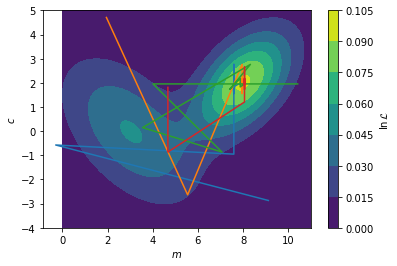
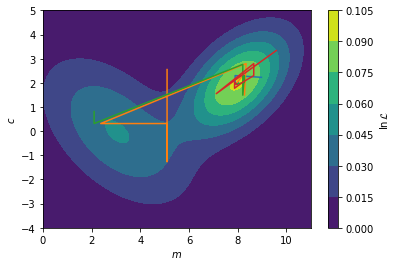
deploy: a2bb62acc96f176f1aa2533b238d1d25d6cc2a20

diff --git a/searchindex.js b/searchindex.js
@@ -1,1 +1,1 @@
-Search.setIndex({docnames:["fitting_processes_and_problems/how_do_we_maximise_the_likelihood","fitting_processes_and_problems/how_to_leverage_our_prior_knowledge","fitting_processes_and_problems/what_is_the_likelihood","intro","model_dependent_analysis/what_is_model_dependent_analysis","model_reparameterisation/a_case_for_model_reparameterisation","model_reparameterisation/niti_multilayer_example","model_reparameterisation/phospholipid_monolayer_example","reflectometry_slab_models/how_we_calculate_the_reflectivity_of_a_slab_model","reflectometry_slab_models/roughness_and_microslicing","reflectometry_slab_models/the_slab_model","the_fourier_transform/an_introduction_to_fourier_transforms","the_fourier_transform/fourier_transforms_for_reflectometry_analysis"],envversion:{"sphinx.domains.c":2,"sphinx.domains.changeset":1,"sphinx.domains.citation":1,"sphinx.domains.cpp":4,"sphinx.domains.index":1,"sphinx.domains.javascript":2,"sphinx.domains.math":2,"sphinx.domains.python":3,"sphinx.domains.rst":2,"sphinx.domains.std":2,"sphinx.ext.intersphinx":1,"sphinxcontrib.bibtex":7,sphinx:56},filenames:["fitting_processes_and_problems/how_do_we_maximise_the_likelihood.ipynb","fitting_processes_and_problems/how_to_leverage_our_prior_knowledge.ipynb","fitting_processes_and_problems/what_is_the_likelihood.ipynb","intro.md","model_dependent_analysis/what_is_model_dependent_analysis.md","model_reparameterisation/a_case_for_model_reparameterisation.md","model_reparameterisation/niti_multilayer_example.ipynb","model_reparameterisation/phospholipid_monolayer_example.ipynb","reflectometry_slab_models/how_we_calculate_the_reflectivity_of_a_slab_model.ipynb","reflectometry_slab_models/roughness_and_microslicing.ipynb","reflectometry_slab_models/the_slab_model.md","the_fourier_transform/an_introduction_to_fourier_transforms.ipynb","the_fourier_transform/fourier_transforms_for_reflectometry_analysis.ipynb"],objects:{},objnames:{},objtypes:{},terms:{"0":[0,2,3,7,8,9,12],"00039":3,"001":[8,9,12],"00260":3,"01980001503076100":3,"022":[3,6],"02614057":0,"0294":3,"03":3,"0330252":0,"04493869":0,"0469":3,"04893":3,"0496667614679125":2,"06":[6,9],"07":3,"078":3,"09209783":0,"0j":[8,9],"1":[0,2,3,6,7,8,9,11,12],"10":[0,2,3,6,9,12],"1000":[0,2,7,8,12],"1008202821328":3,"1016":3,"1023":3,"1039":3,"104":12,"1051":3,"108":3,"1098":3,"11":[0,3,9],"1103":3,"1107":3,"1198":3,"12":[2,3,9],"1204":3,"15":[3,7],"16":[8,12],"16748113":0,"1761":3,"18":[3,7],"186":12,"186e":[8,9,12],"19":[3,7],"193":3,"1948":3,"194812030504":3,"1954":3,"197":3,"1980":3,"1997":3,"1998":3,"1999":3,"1e":9,"1f77b4":2,"1j":[8,12],"2":[0,2,3,4,6,8,9,12],"20":[8,9,12],"200":[3,8,9,12],"20024326":0,"2011":3,"2018":3,"2019":3,"2021":3,"20384101638663543":2,"204":3,"21":3,"23":6,"248":3,"265":7,"265n_c":7,"27663003":0,"2827":3,"2848":3,"297":3,"2e":9,"2k_nk_":9,"3":[0,2,3,6,8,9,10,12],"300":[8,12],"311":3,"338":3,"341":3,"342":3,"357":3,"359":3,"369":3,"3blue1brown":11,"3e":[6,9],"4":[0,2,3,6,8,9,10,12],"417":6,"417e":6,"42":2,"4245e":9,"438":6,"44":3,"4526":3,"47":6,"471":3,"5":[0,7,8,9],"500":[8,9,12],"504":3,"51":6,"52":3,"520":3,"531":3,"58":6,"596":3,"5q":8,"6":[0,3,6,8,9,12],"6133":3,"6141":3,"69":6,"7":[0,2,7,9],"761":3,"779":3,"8":[0,2,6,9],"867":6,"871":12,"871e":[8,9,12],"9":[3,6,9],"90":7,"908":6,"91":6,"922868":3,"9493e":9,"95":3,"951e":6,"978":3,"98":[3,12],"99":3,"9957561":0,"99615666":0,"99998503":0,"99999727":0,"\u00e0":3,"\u00e5":[6,7,8,9,11,12],"\u00e8":3,"\u00e9":3,"\u00f6":3,"abel\u00e8":[8,9],"abstract":6,"case":10,"do":[4,8,12],"float":[0,2,6],"function":[0,2,4,7,8,9,10,12],"import":[0,2,4,6,7,8,9,10,12],"int":12,"return":[0,2,6,8,12],"switch":3,"true":0,"while":6,A:[3,4,6,7,9,10,12],As:10,Be:0,By:4,For:[2,3,5,6,7,12],If:[0,2,3,4,12],In:[0,3,4,5,7,10,12],It:[0,3,4,7,9,10],No:9,The:[0,2,3,4,5,6,7,8,9,11],Then:[4,8,12],There:[0,9],These:[0,9,12],_:[8,12],ab:[8,12],abel:[3,8,9],abeles48:[3,8],abeles_with_rough:9,abl:[5,9],about:[3,5],abov:[0,2,4,6,12],abscissa:2,absolut:0,account:9,accur:4,acf2:12,acf:12,acheiv:7,achiev:9,act:7,action:12,activ:5,ad:7,adapt:9,add:7,add_patch:9,addit:[5,7,12],addition:[4,6,8,9],admittedli:9,after:[0,12],again:[9,12],against:10,agre:2,agreement:[0,2,4],aid:8,aim:[0,2,3],air:[3,7,9,12],al:5,algorithm:[0,3,4],all:[8,11],allow:[5,6,7],alon:0,alpha:2,alreadi:4,also:[6,7,9],although:12,amphiphil:7,an:[3,4,5,9,10],analog:[2,11],analogu:0,analys:[0,3],analysi:[0,2,3,6,7,8,10],analyt:4,andrew:3,angstrom:6,ani:[3,9],anlaysi:6,ann:3,anoth:12,anphi:3,apm:7,append:0,appl:3,appli:[0,4,5,7,9,12],applic:[0,3,8],approach:[0,3,4,5,6,7,8,9,10,12],approx:12,approxim:[3,8],ar:[0,2,3,4,5,6,7,8,9,10,11,12],area:5,argmax:0,argsort:0,arnold:3,around:9,arrai:[0,6,8,9,12],artifact:9,assembl:7,assess:0,assign:6,associ:[2,3],assum:[3,7],assumpt:[4,6,7],atom:[6,7],attach:7,attent:3,autocorrel:12,avail:12,avogardo:6,awar:[0,4],ax:[2,9],axhlin:12,b:[3,6,8],b_:[6,8],b_i:[6,7],b_ni:6,b_ti:6,back:0,bar:[2,8],base:[4,5,6,8],bayesian:3,becom:12,been:[3,6,7,8,9,12],befor:[9,10,11],begin:8,being:[2,4],believ:4,below:[0,2,6,7,8,9,10,11,12],benefit:7,berk:3,best:[0,2],beta:[6,7,8,9,12],beta_0:8,beta_1:10,beta_2:10,beta_:[6,7,12],beta_i:7,beta_microsl:9,beta_n:8,beta_ni:6,beta_ti:6,between:[0,2,4,8,9,10,11,12],bewteen:12,bia:4,bigg:[2,12],biolog:[0,3],bj:3,bjorck11:[0,3],black:[0,12],block:3,blue:[0,2,12],bmatrix:8,book:12,born:[3,8],borrow:12,both:7,bound:6,bowen:3,bring:8,broad:[2,4],broadli:4,brought:8,bsd:8,c9cp00203k:3,c:[0,2,3,12],calcul:[2,4,7,9,10,12],call:10,callback:0,campbel:3,can:[0,2,3,4,5,6,7,8,9,10,12],cannot:9,caract:3,carbon:7,career:4,cation:3,caus:7,cdot:6,chang:[4,12],character:3,characterist:8,characteristic_matric:8,charg:12,chem:3,chemic:[3,5,10],chemistri:4,chi:2,circ:7,clear:[0,4,9,10],clearer:8,clifton:3,close:8,cm:6,code:[0,3,6,9],collect:3,colloid:3,color:2,colorbar:0,comfort:3,common:[0,4,6,7,9,10],commonli:[0,2,5],companion:3,compar:[2,4,5,8,9],comparison:10,complet:[0,4],complex:[0,7,8],composit:7,concept:5,conj:8,conjug:8,consid:[0,2,4,6,7,8,9,10,12],consist:[6,7,10],constant:[4,6],constrain:[5,6,7],constraint:[5,7],construct:[4,8,10],content:3,context:4,continu:3,contourf:0,could:10,coupl:0,cours:[3,4],cover:4,creat:9,croce:[3,9],crystallogr:3,crystallographi:12,css:[3,7],cubitt:3,curr:3,current:0,current_theta:0,curve_fit:2,d:[2,3,8,9,12],d_1:10,d_2:10,d_h:7,d_i:7,d_microsl:9,d_n:8,d_t:7,dan:3,data:[0,2,3,4,5,6,7,8,9,10,12],databas:6,datapoint:2,de:3,decomposit:11,deep:3,def:[0,2,6,8,12],defin:[2,4,6,7,10],deg2rad:7,delta:12,denot:12,densiti:[5,7,8,9,10,12],depend:[0,2,3,6,7,10],deposit:6,deriv:[10,12],descent:0,describ:[4,8,9,10],descript:[5,7,12],desir:[0,6],deslatt:3,destruct:10,detail:[4,11,12],determin:[0,3,8],develop:3,deviat:[2,8],devind:12,diatom:4,diff:[8,12],differ:[9,10,12],differenti:[0,3],differential_evolut:0,difficult:7,dimens:[10,12],dimension:0,dioxid:[9,12],directli:6,discoveri:0,discuss:[2,9,10,12],disposit:6,distribut:[0,2],divid:12,docstr:8,doe:[4,8,9],doi:3,domain:11,done:2,dot:2,downhil:0,dppc:7,dr:12,dtype:8,du:3,due:[4,12],dura:3,e:[3,10],each:[6,7,8,9,10],easili:[0,6],edgecolor:9,edit:3,edler:3,effect:[0,3,7,9,12],effici:3,elast:11,element:[2,6],elementari:[3,12],enabl:9,encount:[0,4],end:8,ensur:4,entir:4,enumer:2,enzym:4,equaion:12,equat:4,error:[2,9],errorbar:2,essenti:11,estim:12,et:5,european:3,eutect:3,evalu:[3,6],eventu:0,ever:4,everi:7,evolut:[0,3],evolutionari:0,exampl:[0,4,5,9,10],exist:9,exp:[8,9,12],expect:4,experi:4,experiment:[2,4,5,10],explicitli:12,extend:7,extrem:[4,7,9],f:[3,6,8],factor:[2,8],fair:4,fals:9,familiar:[4,5,12],fantast:12,far:2,fashion:0,feel:3,fernandez:3,ff7f0e:2,fig:[2,4,7,9,10],figsiz:[2,9],figur:[0,2,3,4,9,12],fill:9,fill_between:2,find:[0,2,4,6,7,9,12],first:[0,2,6,8,10,12],firstli:4,fit:[2,4,6],flat:[9,12],flavour:0,flexion:3,flow:4,fm:6,focus:11,follow:[0,2,3,6,7,12],forc:4,form:[0,12],formal:[8,9],format:3,found:[0,6,7,8,9,12],fourier:[3,4,8,10],fourier_transform:12,frac:[2,6,7,8,9,12],fraction:7,free:3,frensel:8,fresnel:[8,9],fresnel_reflect:8,from:[0,2,3,4,5,6,7,8,9,10,11,12],full:12,fulli:7,fundament:[10,11],further:0,g:[3,6],gcm:6,gener:[4,10],genet:3,geometri:10,gerelli:3,get:[2,3,4],give:[3,8,11],given:[0,2,5,7,9,10],gloabl:0,glob:3,global:[0,3],go:[0,8,10],good:2,gradient:2,gradient_callback:0,gradient_v:0,graphic:6,great:11,greater:12,group:7,guess:0,h:3,ha:[3,6,7,9,12],hand:9,hard:6,have:[2,3,4,7,8,9,12],head:7,heavili:3,heavisid:12,helper:[0,9],henc:11,here:[2,8],heurist:3,higher:7,hopefulli:10,horizont:12,how:[2,3,4,5,10],howev:[0,2,4,5,6,9,10,12],hydrocarbon:7,hydrophil:7,hydrophob:[3,7],i:[2,6,7,8,10,12],identifi:9,ignor:9,implement:[0,8,9],impli:9,improv:4,incid:[10,12],includ:[3,4,6,7,8,11],incorrectli:9,increas:[0,2,9],independ:4,indic:[0,2,12],individu:[6,8],induc:3,influenc:9,inform:12,infti:12,inher:4,initi:0,input:8,insect:0,insight:[3,4],insolubl:7,inspir:0,instead:[0,6,8,12],integr:3,intens:12,interact:[11,12],intercal:7,intercept:2,interest:[4,11],interfac:[3,7,8,9,10],interfer:10,interogr:9,interpret:9,introduc:[3,4,5,7,9,10],inv_fourier_transform:12,invers:[3,12],investig:[0,4,12],involv:[6,10],isbn:3,isi:3,issu:12,its:6,j:3,jackson:3,jci:3,john:[3,5],jpsc21:[3,5],jupyterhub:3,k0:8,k:[0,3,8,12],k_0:8,k_:[8,9],k_n:[8,9],karin:3,kinet:4,kn:8,knowledg:3,known:[4,7,9],l:[0,2,3],la:3,label:[0,8,9,12],languag:[3,5],larg:[3,9,12],later:[6,10],lawrenc:3,layer:[6,7,8,9,10],le:3,lead:[4,9,10,11],leak:9,lectromagn:3,lectur:3,left:9,legend:[8,9,12],length:[5,7,8,9,10,12],less:10,let:12,licens:8,like:[4,7,9],limit:[4,6,7,12],line:[0,2,12],linearli:2,linspac:[0,2,7,8,9,12],lipid:3,literatur:5,ln:[0,2],loadtxt:2,local:0,log:[2,8,9,12],logic:[3,4],logpdf:0,lond:3,look:[0,2,4,8,11,12],loss:12,lost:10,lovel:3,low:8,lr99:[3,4],ls:2,lw:2,m:[0,2,3,8],m_:[6,8],m_w:6,m_w_ni:6,m_w_ti:6,made:[4,6],magnitud:12,mai:[2,5,6,9],majkrzak:3,major:[2,6],make:[3,4,5,7,8],mani:0,marker:2,mass:5,match:12,materi:[5,6,8,9,10,12],mathcal:[0,2],mathemat:3,mathit:[8,12],mathrm:[2,6,7,8,12],matnei:3,matplotlib:[0,2,7,8,9,12],matric:8,matrix:[8,9],matter:6,matyszewska:3,max:[2,8,12],maxima:0,maximis:2,maximum:[0,2,7],mbd:[3,12],mccluskei:3,mead:0,mean:[0,6,7,9,12],measur:[2,4,10,11,12],media:8,member:0,membran:3,menten:4,merit:4,meshgrid:0,method:[3,8,9],methodolog:[0,3,4,9,12],metric:[0,2],micel:3,micha:4,might:4,milieux:3,minim:0,minima:0,minimis:[0,2],minimum:0,modal:0,model:[0,2,3,6,7,9,12],modifi:9,modul:[0,9],mol:6,molecul:[4,5],molecular:6,monlay:7,monolay:3,more:[0,2,4,5,6,7,9,11],most:[0,8,9,10],move:0,movement:3,msfe:[3,7],much:[8,10],multi:0,multivariate_norm:0,must:[4,7],mv1:0,mv2:0,mv:0,my:3,n:[2,3,6,7,8,9],n_:[2,8],n_a:6,n_c:7,natur:7,nazaruk:3,ndarrai:[0,2,6,8,12],nearbi:0,necessari:[0,8,9],need:4,neg:0,nelder:0,nelson:3,neutron:[0,4,6,8,10,11,12],nevot:9,nevotc80:[3,9],newaxi:[8,12],ni:6,nickel:[6,9],nll:0,nois:12,noisi:12,non:0,none:0,norm:2,normal:[0,2,8,12],normal_wavevector:8,normalis:[2,12],note:[4,7,12],notic:[2,9],now:[0,2,7,8,9],np19:[3,8],np:[0,2,6,7,8,9,12],nuanc:10,nuetron:12,number:[0,2,6,7,12],number_lay:8,number_q:8,numpi:[0,2,6,7,8,9,12],o:2,oberal:0,observ:[2,9,10,12],obtain:[0,6,9,12],obvious:10,offer:4,onc:0,ond:3,one:[0,2,7],ones:8,onli:[6,7,9,12],onlin:6,opin:3,optim:[0,2,3],optimis:[0,7],optimum:0,orang:[0,2],order:[0,8,10,12],origin:3,other:[2,7],our:[0,2,4,5,6,7,9,10,12],out:6,over:3,overal:[0,2,8],overview:11,oxford:3,p0:8,p1:8,p:[2,3],packag:[6,8],pai:3,pair:5,panaccion:3,panosc:3,par54:[3,8],par:3,param:[2,6,8,12],paramet:[2,5,6,7,8,9,10],parameteris:[3,5],pari:3,parker:3,parratt:3,part:[2,12],particl:0,particular:[5,10],patch:9,path:[0,10],pattern:[10,11],pdf:[0,2],peak:12,pedulla:3,per:5,perfect:9,perfectli:9,perform:[2,11,12],perpendicular:12,pg:12,phase:[3,4,8,12],phase_factor:8,phi:8,phi_0:8,phi_i:7,phi_n:8,phi_t:8,phil:3,phospholipid:3,phy:3,physic:[3,4,5,7,10,12],physica:3,physrev:3,pi:[2,8,12],pictori:7,piec:[6,9,12],pint:6,plane:[7,12],pleas:3,plot:[0,2,3,7,8,9,12],plt:[0,2,7,8,9,12],point:2,polissag:3,popul:0,popular:4,posit:0,possibl:[0,2,4,7,9,10,12],power:3,prepar:[4,6],prescott:3,present:[4,12],press:3,pressur:7,preston:3,previou:4,previous:[5,8,9],price:3,print:[0,6],probabl:2,probe:4,problem:[0,3,4,12],procedur:3,process:[3,4,5,6],prod:8,produc:[3,4,12],product:8,profil:[9,10,12],program:3,project:3,propag:[3,8,10],propos:4,py:[0,9],pyplot:[0,2,7,8,9,12],python:[3,8],q2:12,q:[4,8,9,11,12],q_:12,q_x:12,q_y:12,qualiti:0,quelqu:3,question:3,quick:12,r2:12,r:[3,7,8,9,10,12],r_:[8,9],r_abel:8,r_fourier:8,r_microsl:9,r_nevot_croc:9,r_with_rough:9,radiat:[11,12],rai:[3,12],random:0,rang:[4,8,9,12],rasant:3,rather:[4,5,6],ratio:10,ration:0,rayon:3,rck:3,re:0,reach:[0,6],reader:3,real:[8,9,10],realli:4,reason:6,rectangl:9,red:9,reduc:7,refin:10,reflect:[3,4,9,10,12],reflectometri:[0,2,4,5,6,7,8,9,10],refnx:[3,8],refract:[8,10],region:[0,7,9,12],relat:6,relationship:12,relev:7,reli:8,render:12,reparameteris:[2,3,6,7,10],repeat:6,repres:[2,4],reproduc:8,requir:3,res1:0,res2:0,resolut:[4,12],respect:12,result:[0,4,8,9,10,12],resultant_matrix:8,retriv:12,rev:3,rewrit:12,rho:[6,8],rho_:6,rho_ni:6,rho_ti:6,rho_to_beta:6,richardson:3,right:9,risat:3,room:6,root:0,rout:0,rphysap:3,rsta:3,rule:9,s0021889811041446:3,s0921:3,s1359:3,s1600576718017296:3,s:[3,6,7,12],saaka:3,sai:12,same:[2,6,9,10,12],sampl:[4,6,9,11,12],sanchez:3,sansom:3,satija:3,scale:[3,12],scatter:[3,5,7,8,9,10,12],sci:3,scienc:4,scipi:[0,2,6],section:[0,4,5,10],see:[0,9,10],seen:2,select:2,self:7,semi:0,sensit:12,seri:[8,9,10],set:6,set_xlabel:[2,9],set_xlim:9,set_ylabel:[2,9],set_ylim:9,shao:3,shape:8,shortest:9,should:[2,3,7,9,12],show:[0,2,3,4,6,7,8,9,10,12],shown:[0,2,4,7,8,9,10,12],si:12,sigma2:9,sigma3:9,sigma5:9,sigma7:9,sigma:[2,9],sigma_:9,sigma_n:2,silic:3,silicon:[6,9,12],similar:8,simpl:[0,3,4,6,7,10,12],simpli:0,simul:[4,5,6],sin:7,singl:[2,7],sio_2:12,sit:[2,7],siv11:[3,12],sivia:[3,12],skip:3,slab:[3,5,7,9],sld_with_rough:9,smooth:[9,12],so:2,soc:3,solid:3,solubl:7,solut:0,solvat:7,solvent:[3,7],some:[0,2,4,7,9,10,11,12],someth:11,son:3,sourc:3,sp97:[0,3],space:[0,3,11],spallat:3,spectra:4,specular:3,sqrt:8,squar:[8,12],sratifi:3,standard:2,start:0,stat:[0,2],step:[0,9],still:[6,9,12],stoichiometri:5,storn:3,straight_lin:2,straightforward:5,strand:7,stratifi:8,structur:[3,4,6,12],studi:[3,4,12],subject:3,subplot:[2,9],substanti:9,sum:[6,8,12],sum_:[2,6,7],summat:2,superphas:8,sur:3,sure:3,surfac:[3,6,8,12],surfact:3,swarm:0,synthesi:[4,5],system:[0,4,5,6,7,9,10,12],t:[0,3],t_t:7,tackl:4,tail:7,take:[0,4],taken:[8,10],tan80:[3,7],tanford:[3,7],techniqu:3,temperatur:6,tend:12,term:[2,5,6,7,10],textquotesingl:3,than:[0,6,12],them:[2,9],theori:[3,12],therefor:[0,4,5,6,9],theta:[0,2,7],thi:[0,2,3,4,5,6,7,8,9,10,11,12],thick:[7,8,9,10,12],thickn:9,thin:9,thing:4,think:5,thought:12,three:[4,6],through:[5,8,9,10],thumb:9,tight_layout:2,time:[6,9,11,12],tiqu:3,titanium:[6,9],todo:11,togeth:8,tool:[4,5,12],top4:0,top:12,total:3,touch:3,toward:[0,12],tradit:[3,6,7],train:3,tran:3,transform:[3,4,8,10],translat:5,transmitt:8,trigonometri:7,tude:3,turn:0,two:[0,4,7,8,9,10],txt:2,typic:[0,2,4,5,6,7,9,10],u:6,uncertainti:2,unclear:6,under:[8,12],underli:[2,4],understand:[3,4,5,8,10,12],unintu:5,uniqu:0,unit:11,unitregistri:6,univers:3,unlik:7,unphys:[9,12],until:6,up:0,uphil:0,us:[0,2,3,4,5,6,7,8,9],useless:12,user:[3,12],utilis:12,valu:[0,2,5,6,7,8,12],vari:6,variabl:6,varieti:0,vector:8,veri:[0,7,9],verr:3,version:12,vibrat:4,video:11,virtual:3,visualis:[9,12],vot:3,w:[3,6],wa:[3,4,10,12],wai:4,watch:11,water:[3,7],wave:[8,10],wavevector:[8,12],we:[2,3,4,5,6,7,9,10,11,12],weight:6,well:4,were:7,what:3,when:[0,2,7,8,10],where:[0,2,4,6,7,8,9,10,12],which:[0,2,6,7,8,9,11,12],width:9,wilei:3,without:[4,9,12],word:4,work:[5,9],workflow:4,wormington:3,would:[4,7,9,10],wpmb99:[0,3],written:12,wwe:7,x:[0,2,3,12],x_n:2,xlabel:[0,7,8,9,12],xy:7,y:[0,2,3],y_fit:2,y_n:2,ylabel:[0,7,8,9,12],you:[2,3,4,12],your:4,yscale:[8,9,12],yy:2,z:[8,9,10,12],zero:8,zeros_lik:[8,12],zorder:2,zq:12},titles:["How do we maximise the likelihood?","How to leverage our prior knowledge?","What is the likelihood?","Introduction to neutron reflectometry fitting","What is model-dependent analysis?","A case for model reparameterisation","NiTi multilayer example","Phospholipid monolayer example","How we calculate the reflectivity of a slab model","Roughness and microslicing","The \u201cslab model\u201d","An introduction to Fourier transforms","Fourier transforms for reflectometry analysis"],titleterms:{"case":5,"do":0,A:5,The:[10,12],algorithm:8,an:[11,12],analysi:[4,12],angl:7,approxim:12,area:7,bibliographi:3,born:12,calcul:8,chain:7,densiti:6,depend:4,exampl:[6,7,12],fit:3,fourier:[11,12],gradient:0,how:[0,1,8],interfac:12,interfaci:9,introduct:[3,11],knowledg:1,layer:12,length:6,leverag:1,likelihood:[0,2],mass:6,maximis:0,method:0,microsl:9,model:[4,5,8,10],molecul:7,monolay:7,multilay:6,neutron:3,niti:6,our:1,oxid:12,per:7,phospholipid:7,prior:1,problem:9,reflect:8,reflectometri:[3,12],reparameteris:5,rough:9,scatter:[6,11],singl:12,slab:[8,10],specular:12,stochast:0,tilt:7,transform:[11,12],us:12,we:[0,8],what:[2,4,11]}})
+Search.setIndex({docnames:["fitting_processes_and_problems/how_do_we_maximise_the_likelihood","fitting_processes_and_problems/how_to_leverage_our_prior_knowledge","fitting_processes_and_problems/what_is_the_likelihood","intro","model_dependent_analysis/what_is_model_dependent_analysis","model_reparameterisation/a_case_for_model_reparameterisation","model_reparameterisation/niti_multilayer_example","model_reparameterisation/phospholipid_monolayer_example","reflectometry_slab_models/how_we_calculate_the_reflectivity_of_a_slab_model","reflectometry_slab_models/roughness_and_microslicing","reflectometry_slab_models/the_slab_model","the_fourier_transform/an_introduction_to_fourier_transforms","the_fourier_transform/fourier_transforms_for_reflectometry_analysis"],envversion:{"sphinx.domains.c":2,"sphinx.domains.changeset":1,"sphinx.domains.citation":1,"sphinx.domains.cpp":4,"sphinx.domains.index":1,"sphinx.domains.javascript":2,"sphinx.domains.math":2,"sphinx.domains.python":3,"sphinx.domains.rst":2,"sphinx.domains.std":2,"sphinx.ext.intersphinx":1,"sphinxcontrib.bibtex":7,sphinx:56},filenames:["fitting_processes_and_problems/how_do_we_maximise_the_likelihood.ipynb","fitting_processes_and_problems/how_to_leverage_our_prior_knowledge.ipynb","fitting_processes_and_problems/what_is_the_likelihood.ipynb","intro.md","model_dependent_analysis/what_is_model_dependent_analysis.md","model_reparameterisation/a_case_for_model_reparameterisation.md","model_reparameterisation/niti_multilayer_example.ipynb","model_reparameterisation/phospholipid_monolayer_example.ipynb","reflectometry_slab_models/how_we_calculate_the_reflectivity_of_a_slab_model.ipynb","reflectometry_slab_models/roughness_and_microslicing.ipynb","reflectometry_slab_models/the_slab_model.md","the_fourier_transform/an_introduction_to_fourier_transforms.ipynb","the_fourier_transform/fourier_transforms_for_reflectometry_analysis.ipynb"],objects:{},objnames:{},objtypes:{},terms:{"0":[0,2,3,7,8,9,12],"00039":3,"001":[8,9,12],"00260":3,"01980001503076100":3,"022":[3,6],"02614057":0,"0294":3,"03":3,"0330252":0,"04493869":0,"0469":3,"04893":3,"0496667614679125":2,"06":[6,9],"07":3,"078":3,"09209783":0,"0j":[8,9],"1":[0,2,3,6,7,8,9,11,12],"10":[0,2,3,6,9,12],"1000":[0,2,7,8,12],"1008202821328":3,"1016":3,"1023":3,"1039":3,"104":12,"1051":3,"108":3,"1098":3,"11":[0,3,9],"1103":3,"1107":3,"1198":3,"12":[2,3,9],"1204":3,"15":[3,7],"16":[8,12],"16748113":0,"1761":3,"18":[3,7],"186":12,"186e":[8,9,12],"19":[3,7],"193":3,"1948":3,"194812030504":3,"1954":3,"197":3,"1980":3,"1997":3,"1998":3,"1999":3,"1e":9,"1f77b4":2,"1j":[8,12],"2":[0,2,3,4,6,8,9,12],"20":[8,9,12],"200":[3,8,9,12],"2011":3,"2018":3,"2019":3,"2021":3,"20384101638663543":2,"204":3,"21":3,"23":6,"248":3,"265":7,"265n_c":7,"2827":3,"2848":3,"297":3,"2e":9,"2k_nk_":9,"3":[0,2,3,6,8,9,10,12],"300":[8,12],"311":3,"338":3,"341":3,"342":3,"357":3,"359":3,"369":3,"3blue1brown":11,"3e":[6,9],"4":[0,2,3,6,8,9,10,12],"417":6,"417e":6,"42":2,"4245e":9,"438":6,"44":3,"4526":3,"47":6,"471":3,"5":[0,7,8,9],"500":[8,9,12],"504":3,"51":6,"52":3,"520":3,"531":3,"58":6,"596":3,"5q":8,"6":[0,3,6,8,9,12],"6133":3,"6141":3,"69":6,"7":[0,2,7,9],"70070599":0,"761":3,"779":3,"8":[0,2,6,9],"867":6,"871":12,"871e":[8,9,12],"9":[3,6,9],"90":7,"908":6,"91":6,"922868":3,"93869716":0,"9493e":9,"95":3,"951e":6,"978":3,"98":[3,12],"99":3,"9957561":0,"99615666":0,"99998503":0,"99999727":0,"\u00e0":3,"\u00e5":[6,7,8,9,11,12],"\u00e8":3,"\u00e9":3,"\u00f6":3,"abel\u00e8":[8,9],"abstract":6,"case":10,"do":[4,8,12],"float":[0,2,6],"function":[0,2,4,7,8,9,10,12],"import":[0,2,4,6,7,8,9,10,12],"int":12,"return":[0,2,6,8,12],"switch":3,"true":0,"while":6,A:[3,4,6,7,9,10,12],As:10,Be:0,By:4,For:[2,3,5,6,7,12],If:[0,2,3,4,12],In:[0,3,4,5,7,10,12],It:[0,3,4,7,9,10],No:9,The:[0,2,3,4,5,6,7,8,9,11],Then:[4,8,12],There:[0,9],These:[0,9,12],_:[8,12],ab:[8,12],abel:[3,8,9],abeles48:[3,8],abeles_with_rough:9,abl:[5,9],about:[0,3,5],abov:[0,2,4,6,12],abscissa:2,absolut:0,account:9,accur:4,acf2:12,acf:12,acheiv:7,achiev:9,act:7,action:12,activ:5,ad:7,adapt:9,add:7,add_patch:9,addit:[5,7,12],addition:[4,6,8,9],admittedli:9,after:[0,12],again:[9,12],against:10,agre:2,agreement:[0,2,4],aid:8,aim:[0,2,3],air:[3,7,9,12],al:5,algorithm:[0,3,4],all:[8,11],allow:[5,6,7],alon:0,alpha:2,alreadi:4,also:[6,7,9],although:12,amphiphil:7,an:[3,4,5,9,10],analog:[2,11],analogu:0,analys:[0,3],analysi:[0,2,3,6,7,8,10],analyt:4,andrew:3,angstrom:6,ani:[3,9],anlaysi:6,ann:3,anoth:12,anphi:3,apm:7,append:0,appl:3,appli:[0,4,5,7,9,12],applic:[0,3,8],approach:[0,3,4,5,6,7,8,9,10,12],approx:12,approxim:[3,8],ar:[0,2,3,4,5,6,7,8,9,10,11,12],area:5,argmax:0,argsort:0,arnold:3,around:9,arrai:[0,6,8,9,12],artifact:9,assembl:7,assess:0,assign:6,associ:[2,3],assum:[3,7],assumpt:[4,6,7],atom:[6,7],attach:7,attent:3,autocorrel:12,avail:12,avogardo:6,awar:[0,4],ax:[2,9],axhlin:12,b:[3,6,8],b_:[6,8],b_i:[6,7],b_ni:6,b_ti:6,back:0,bar:[2,8],base:[4,5,6,8],bayesian:3,becom:12,been:[3,6,7,8,9,12],befor:[9,10,11],begin:8,being:[2,4],believ:4,below:[0,2,6,7,8,9,10,11,12],benefit:7,berk:3,best:[0,2],beta:[6,7,8,9,12],beta_0:8,beta_1:10,beta_2:10,beta_:[6,7,12],beta_i:7,beta_microsl:9,beta_n:8,beta_ni:6,beta_ti:6,between:[0,2,4,8,9,10,11,12],bewteen:12,beyond:0,bia:4,bigg:[2,12],biolog:[0,3],bj:3,bjorck11:[0,3],black:[0,12],block:3,blue:[0,2,12],bmatrix:8,book:12,born:[3,8],borrow:12,both:7,bound:6,bowen:3,bring:8,broad:[2,4],broadli:4,brought:8,bsd:8,c9cp00203k:3,c:[0,2,3,12],calcul:[2,4,7,9,10,12],call:10,callback:0,campbel:3,can:[0,2,3,4,5,6,7,8,9,10,12],cannot:9,caract:3,carbon:7,career:4,cation:3,caus:7,cdot:6,chang:[4,12],character:3,characterist:8,characteristic_matric:8,charg:12,chem:3,chemic:[3,5,10],chemistri:4,chi:2,circ:7,clear:[0,4,9,10],clearer:8,clifton:3,close:8,cm:6,code:[0,3,6,9],collect:3,colloid:3,color:2,colorbar:0,comfort:3,common:[0,4,6,7,9,10],commonli:[0,2,5],companion:3,compar:[2,4,5,8,9],comparison:10,complet:[0,4],complex:[0,7,8],composit:7,concept:5,conclus:0,conj:8,conjug:8,consid:[0,2,4,6,7,8,9,10,12],consist:[6,7,10],constant:[4,6],constrain:[5,6,7],constraint:[5,7],construct:[4,8,10],content:3,context:4,continu:3,contourf:0,could:10,coupl:0,cours:[0,3,4],cover:4,creat:9,croce:[3,9],crystallogr:3,crystallographi:12,css:[3,7],cubitt:3,curr:3,current:0,current_theta:0,curve_fit:2,d:[2,3,8,9,12],d_1:10,d_2:10,d_h:7,d_i:7,d_microsl:9,d_n:8,d_t:7,dan:3,data:[0,2,3,4,5,6,7,8,9,10,12],databas:6,datapoint:2,de:3,decomposit:11,deep:3,def:[0,2,6,8,12],defin:[2,4,6,7,10],deg2rad:7,delta:12,denot:12,densiti:[5,7,8,9,10,12],depend:[0,2,3,6,7,10],deposit:6,deriv:[10,12],descent:0,describ:[4,8,9,10],descript:[5,7,12],desir:[0,6],deslatt:3,destruct:10,detail:[4,11,12],determin:[0,3,8],develop:3,deviat:[2,8],devind:12,diatom:4,diff:[8,12],differ:[9,10,12],differenti:[0,3],differential_evolut:0,difficult:7,dimens:[10,12],dimension:0,dioxid:[9,12],directli:6,discoveri:0,discuss:[2,9,10,12],disposit:6,distribut:[0,2],divid:12,docstr:8,doe:[4,8,9],doi:3,domain:11,done:2,dot:2,downhil:0,dppc:7,dr:12,draw:0,dtype:8,du:3,due:[4,12],dura:3,e:[3,10],each:[6,7,8,9,10],easili:[0,6],edgecolor:9,edit:3,edler:3,effect:[0,3,7,9,12],effici:3,elast:11,element:[2,6],elementari:[3,12],enabl:9,encount:[0,4],end:8,ensur:4,entir:4,enumer:2,enzym:4,equaion:12,equat:4,error:[2,9],errorbar:2,essenti:11,estim:12,et:5,european:3,eutect:3,evalu:[3,6],eventu:0,ever:4,everi:7,evolut:[0,3],evolutionari:0,exampl:[0,4,5,9,10],exist:9,exp:[8,9,12],expect:4,experi:4,experiment:[2,4,5,10],explicitli:12,extend:7,extrem:[4,7,9],f:[3,6,8],factor:[2,8],fair:4,fals:9,familiar:[4,5,12],fantast:12,far:2,fashion:0,feel:3,fernandez:3,ff7f0e:2,fig:[2,4,7,9,10],figsiz:[2,9],figur:[0,2,3,4,9,12],fill:9,fill_between:2,find:[0,2,4,6,7,9,12],first:[0,2,6,8,10,12],firstli:4,fit:[2,4,6],flat:[9,12],flavour:0,flexion:3,flow:4,fm:6,focus:11,follow:[0,2,3,6,7,12],forc:4,form:[0,12],formal:[8,9],format:3,found:[0,6,7,8,9,12],fourier:[3,4,8,10],fourier_transform:12,frac:[2,6,7,8,9,12],fraction:7,free:3,frensel:8,fresnel:[8,9],fresnel_reflect:8,from:[0,2,3,4,5,6,7,8,9,10,11,12],full:12,fulli:7,fundament:[10,11],further:0,g:[3,6],gcm:6,gener:[4,10],genet:3,geometri:10,gerelli:3,get:[2,3,4],give:[3,8,11],given:[0,2,5,7,9,10],gloabl:0,glob:3,global:[0,3],go:[0,8,10],good:2,gradient:2,gradient_callback:0,gradient_v:0,graphic:6,great:11,greater:12,group:7,guess:0,h:3,ha:[3,6,7,9,12],hand:9,hard:6,have:[2,3,4,7,8,9,12],head:7,heavili:3,heavisid:12,helper:[0,9],henc:11,here:[2,8],heurist:3,higher:7,hopefulli:10,horizont:12,how:[2,3,4,5,10],howev:[0,2,4,5,6,9,10,12],hydrocarbon:7,hydrophil:7,hydrophob:[3,7],i:[2,6,7,8,10,12],identifi:9,ignor:9,implement:[0,8,9],impli:9,improv:4,incid:[10,12],includ:[3,4,6,7,8,11],incorrectli:9,increas:[0,2,9],independ:4,indic:[0,2,12],individu:[6,8],induc:3,influenc:9,inform:12,infti:12,inher:4,initi:0,input:8,insect:0,insight:[3,4],insolubl:7,inspir:0,instead:[0,6,8,12],integr:3,intens:12,interact:[11,12],intercal:7,intercept:2,interest:[4,11],interfac:[3,7,8,9,10],interfer:10,interogr:9,interpret:9,introduc:[3,4,5,7,9,10],inv_fourier_transform:12,invers:[3,12],investig:[0,4,12],involv:[6,10],isbn:3,isi:3,issu:12,its:6,j:3,jackson:3,jci:3,john:[3,5],jpsc21:[3,5],jupyterhub:3,k0:8,k:[0,3,8,12],k_0:8,k_:[8,9],k_n:[8,9],karin:3,kinet:4,kn:8,knowledg:3,known:[4,7,9],l:[0,2,3],la:3,label:[0,8,9,12],languag:[3,5],larg:[3,9,12],later:[6,10],lawrenc:3,layer:[6,7,8,9,10],le:3,lead:[4,9,10,11],leak:9,lectromagn:3,lectur:3,left:9,legend:[8,9,12],length:[5,7,8,9,10,12],less:10,let:12,licens:8,like:[4,7,9],limit:[4,6,7,12],line:[0,2,12],linearli:2,linspac:[0,2,7,8,9,12],lipid:3,literatur:5,ln:[0,2],loadtxt:2,local:0,log:[2,8,9,12],logic:[3,4],logpdf:0,lond:3,look:[0,2,4,8,11,12],loss:12,lost:10,lovel:3,low:8,lr99:[3,4],ls:2,lw:2,m:[0,2,3,8],m_:[6,8],m_w:6,m_w_ni:6,m_w_ti:6,made:[4,6],magnitud:12,mai:[2,5,6,9],majkrzak:3,major:[2,6],make:[3,4,5,7,8],mani:0,marker:2,mass:5,match:12,materi:[5,6,8,9,10,12],mathcal:[0,2],mathemat:3,mathit:[8,12],mathrm:[2,6,7,8,12],matnei:3,matplotlib:[0,2,7,8,9,12],matric:8,matrix:[8,9],matter:6,matyszewska:3,max:[2,8,12],maxima:0,maximis:2,maximum:[0,2,7],mbd:[3,12],mccluskei:3,mead:0,mean:[0,6,7,9,12],measur:[2,4,10,11,12],media:8,member:0,membran:3,menten:4,merit:4,meshgrid:0,method:[3,8,9],methodolog:[0,3,4,9,12],metric:[0,2],micel:3,micha:4,might:4,milieux:3,minim:0,minima:0,minimis:[0,2],minimum:0,modal:0,model:[0,2,3,6,7,9,12],modifi:9,modul:[0,9],mol:6,molecul:[4,5],molecular:6,monlay:7,monolay:3,more:[0,2,4,5,6,7,9,11],most:[0,8,9,10],move:0,movement:3,msfe:[3,7],much:[8,10],multi:0,multivariate_norm:0,must:[4,7],mv1:0,mv2:0,mv:0,my:3,n:[2,3,6,7,8,9],n_:[2,8],n_a:6,n_c:7,natur:7,nazaruk:3,ndarrai:[0,2,6,8,12],nearbi:0,necessari:[0,8,9],need:4,neg:0,nelder:0,nelson:3,neutron:[0,4,6,8,10,11,12],nevot:9,nevotc80:[3,9],newaxi:[8,12],ni:6,nickel:[6,9],nll:0,nois:12,noisi:12,non:0,none:0,norm:2,normal:[0,2,8,12],normal_wavevector:8,normalis:[2,12],note:[4,7,12],notic:[2,9],now:[0,2,7,8,9],np19:[3,8],np:[0,2,6,7,8,9,12],nuanc:10,nuetron:12,number:[0,2,6,7,12],number_lay:8,number_q:8,numpi:[0,2,6,7,8,9,12],o:2,oberal:0,observ:[2,9,10,12],obtain:[0,6,9,12],obvious:10,offer:4,onc:0,ond:3,one:[0,2,7],ones:8,onli:[6,7,9,12],onlin:6,opin:3,optim:[0,2,3],optimis:[0,7],optimum:0,orang:[0,2],order:[0,8,10,12],origin:3,other:[2,7],our:[0,2,4,5,6,7,9,10,12],out:6,over:3,overal:[0,2,8],overview:11,oxford:3,p0:8,p1:8,p:[2,3],packag:[6,8],pai:3,pair:5,panaccion:3,panosc:3,par54:[3,8],par:3,param:[2,6,8,12],paramet:[2,5,6,7,8,9,10],parameteris:[3,5],pari:3,parker:3,parratt:3,part:[2,12],particl:0,particular:[5,10],patch:9,path:[0,10],pattern:[10,11],pdf:[0,2],peak:12,pedulla:3,per:5,perfect:9,perfectli:9,perform:[2,11,12],perpendicular:12,pg:12,phase:[3,4,8,12],phase_factor:8,phi:8,phi_0:8,phi_i:7,phi_n:8,phi_t:8,phil:3,phospholipid:3,phy:3,physic:[3,4,5,7,10,12],physica:3,physrev:3,pi:[2,8,12],pictori:7,piec:[6,9,12],pint:6,plane:[7,12],pleas:3,plot:[0,2,3,7,8,9,12],plt:[0,2,7,8,9,12],point:2,polissag:3,popul:0,popular:4,posit:0,possibl:[0,2,4,7,9,10,12],power:3,prepar:[4,6],prescott:3,present:[4,12],press:3,pressur:7,preston:3,previou:4,previous:[5,8,9],price:3,print:[0,6],probabl:2,probe:[0,4],problem:[0,3,4,12],procedur:3,process:[3,4,5,6],prod:8,produc:[3,4,12],product:8,profil:[9,10,12],program:3,project:3,propag:[3,8,10],propos:4,py:[0,9],pyplot:[0,2,7,8,9,12],python:[3,8],q2:12,q:[4,8,9,11,12],q_:12,q_x:12,q_y:12,qualiti:0,quelqu:3,question:3,quick:12,r2:12,r:[3,7,8,9,10,12],r_:[8,9],r_abel:8,r_fourier:8,r_microsl:9,r_nevot_croc:9,r_with_rough:9,radiat:[11,12],rai:[3,12],random:0,rang:[4,8,9,12],rasant:3,rather:[4,5,6],ratio:10,ration:0,rayon:3,rck:3,re:0,reach:[0,6],reader:3,real:[8,9,10],realli:4,reason:6,rectangl:9,red:9,reduc:7,refin:10,reflect:[3,4,9,10,12],reflectometri:[0,2,4,5,6,7,8,9,10],refnx:[3,8],refract:[8,10],region:[0,7,9,12],relat:6,relationship:12,relev:7,reli:8,render:12,reparameteris:[2,3,6,7,10],repeat:6,repres:[2,4],reproduc:8,requir:3,res1:0,res2:0,resolut:[4,12],respect:12,result:[0,4,8,9,10,12],resultant_matrix:8,retriv:12,rev:3,rewrit:12,rho:[6,8],rho_:6,rho_ni:6,rho_ti:6,rho_to_beta:6,richardson:3,right:9,risat:3,robust:0,room:6,root:0,rout:0,rphysap:3,rsta:3,rule:9,s0021889811041446:3,s0921:3,s1359:3,s1600576718017296:3,s:[3,6,7,12],saaka:3,sai:12,same:[2,6,9,10,12],sampl:[4,6,9,11,12],sanchez:3,sansom:3,satija:3,scale:[3,12],scatter:[3,5,7,8,9,10,12],sci:3,scienc:4,scipi:[0,2,6],scope:0,section:[0,4,5,10],see:[0,9,10],seen:2,select:2,self:7,semi:0,sensit:12,seri:[8,9,10],set:6,set_xlabel:[2,9],set_xlim:9,set_ylabel:[2,9],set_ylim:9,shao:3,shape:[0,8],shortest:9,should:[2,3,7,9,12],show:[0,2,3,4,6,7,8,9,10,12],shown:[0,2,4,7,8,9,10,12],si:12,sigma2:9,sigma3:9,sigma5:9,sigma7:9,sigma:[2,9],sigma_:9,sigma_n:2,silic:3,silicon:[6,9,12],similar:8,simpl:[0,3,4,6,7,10,12],simpli:0,simul:[4,5,6],sin:7,singl:[2,7],sio_2:12,sit:[2,7],siv11:[3,12],sivia:[3,12],skip:3,slab:[3,5,7,9],sld_with_rough:9,smooth:[9,12],so:2,soc:3,solid:3,solubl:7,solut:0,solvat:7,solvent:[3,7],some:[0,2,4,7,9,10,11,12],someth:11,son:3,sourc:3,sp97:[0,3],space:[0,3,11],spallat:3,spectra:4,specular:3,sqrt:8,squar:[8,12],sratifi:3,standard:2,start:0,stat:[0,2],step:[0,9],still:[6,9,12],stoichiometri:5,storn:3,straight_lin:2,straightforward:5,strand:7,stratifi:8,structur:[3,4,6,12],studi:[3,4,12],subject:3,subplot:[2,9],substanti:9,sum:[6,8,12],sum_:[2,6,7],summat:2,superphas:8,sur:3,sure:3,surfac:[3,6,8,12],surfact:3,swarm:0,synthesi:[4,5],system:[0,4,5,6,7,9,10,12],t:[0,3],t_t:7,tackl:4,tail:7,take:[0,4],taken:[8,10],tan80:[3,7],tanford:[3,7],techniqu:3,temperatur:6,tend:12,term:[2,5,6,7,10],textquotesingl:3,than:[0,6,12],them:[2,9],theori:[3,12],therefor:[0,4,5,6,9],theta:[0,2,7],thi:[0,2,3,4,5,6,7,8,9,10,11,12],thick:[7,8,9,10,12],thickn:9,thin:9,thing:4,think:5,thought:12,three:[4,6],through:[5,8,9,10],thumb:9,tight_layout:2,time:[6,9,11,12],tiqu:3,titanium:[6,9],todo:11,togeth:8,tool:[4,5,12],top4:0,top:12,total:3,touch:3,toward:[0,12],tradit:[3,6,7],train:3,tran:3,transform:[3,4,8,10],translat:5,transmitt:8,trigonometri:7,tude:3,turn:0,two:[0,4,7,8,9,10],txt:2,typic:[0,2,4,5,6,7,9,10],u:6,uncertainti:2,unclear:6,under:[8,12],underli:[2,4],understand:[3,4,5,8,10,12],unintu:5,uniqu:0,unit:11,unitregistri:6,univers:3,unlik:7,unphys:[9,12],until:6,up:0,uphil:0,us:[0,2,3,4,5,6,7,8,9],useless:12,user:[3,12],utilis:12,valu:[0,2,5,6,7,8,12],valuabl:0,vari:6,variabl:6,varieti:0,vector:8,veri:[0,7,9],verr:3,version:12,vibrat:4,video:11,virtual:3,visualis:[9,12],vot:3,w:[3,6],wa:[3,4,10,12],wai:4,watch:11,water:[3,7],wave:[8,10],wavevector:[8,12],we:[2,3,4,5,6,7,9,10,11,12],weight:6,well:4,were:7,what:3,when:[0,2,7,8,10],where:[0,2,4,6,7,8,9,10,12],which:[0,2,6,7,8,9,11,12],width:9,wilei:3,without:[4,9,12],word:4,work:[5,9],workflow:4,wormington:3,would:[4,7,9,10],wpmb99:[0,3],written:12,wwe:7,x:[0,2,3,12],x_n:2,xlabel:[0,7,8,9,12],xy:7,y:[0,2,3],y_fit:2,y_n:2,ylabel:[0,7,8,9,12],you:[2,3,4,12],your:4,yscale:[8,9,12],yy:2,z:[8,9,10,12],zero:8,zeros_lik:[8,12],zorder:2,zq:12},titles:["How do we maximise the likelihood?","How to leverage our prior knowledge?","What is the likelihood?","Introduction to neutron reflectometry fitting","What is model-dependent analysis?","A case for model reparameterisation","NiTi multilayer example","Phospholipid monolayer example","How we calculate the reflectivity of a slab model","Roughness and microslicing","The \u201cslab model\u201d","An introduction to Fourier transforms","Fourier transforms for reflectometry analysis"],titleterms:{"case":5,"do":0,A:5,The:[10,12],algorithm:8,an:[11,12],analysi:[4,12],angl:7,approxim:12,area:7,bibliographi:3,born:12,calcul:8,chain:7,densiti:6,depend:4,exampl:[6,7,12],fit:3,fourier:[11,12],gradient:0,how:[0,1,8],interfac:12,interfaci:9,introduct:[3,11],knowledg:1,layer:12,length:6,leverag:1,likelihood:[0,2],mass:6,maximis:0,method:0,microsl:9,model:[4,5,8,10],molecul:7,monolay:7,multilay:6,neutron:3,niti:6,our:1,oxid:12,per:7,phospholipid:7,prior:1,problem:9,reflect:8,reflectometri:[3,12],reparameteris:5,rough:9,scatter:[6,11],singl:12,slab:[8,10],specular:12,stochast:0,tilt:7,transform:[11,12],us:12,we:[0,8],what:[2,4,11]}})

diff --git a/fitting_processes_and_problems/how_do_we_maximise_the_likelihood.html b/fitting_processes_and_problems/how_do_we_maximise_the_likelihood.html
@@ -458,11 +458,12 @@ This is necessary as, as we can see from the oberall maximum, the differential e
 </div>
 <div class="cell_output docutils container">
 <img alt="../_images/how_do_we_maximise_the_likelihood_6_0.png" src="../_images/how_do_we_maximise_the_likelihood_6_0.png" />
-<div class="output stream highlight-myst-ansi notranslate"><div class="highlight"><pre><span></span>Overall Maximum: [8.27663003 2.20024326]
+<div class="output stream highlight-myst-ansi notranslate"><div class="highlight"><pre><span></span>Overall Maximum: [7.70070599 1.93869716]
 </pre></div>
 </div>
 </div>
 </div>
+<p>Once some likelihood maximum is found, it is valuable to probe the shape of that maximum, to draw conclusions about robustivity of the result, but that is beyond the scope for this course.</p>
 </div>
 </div>
 
